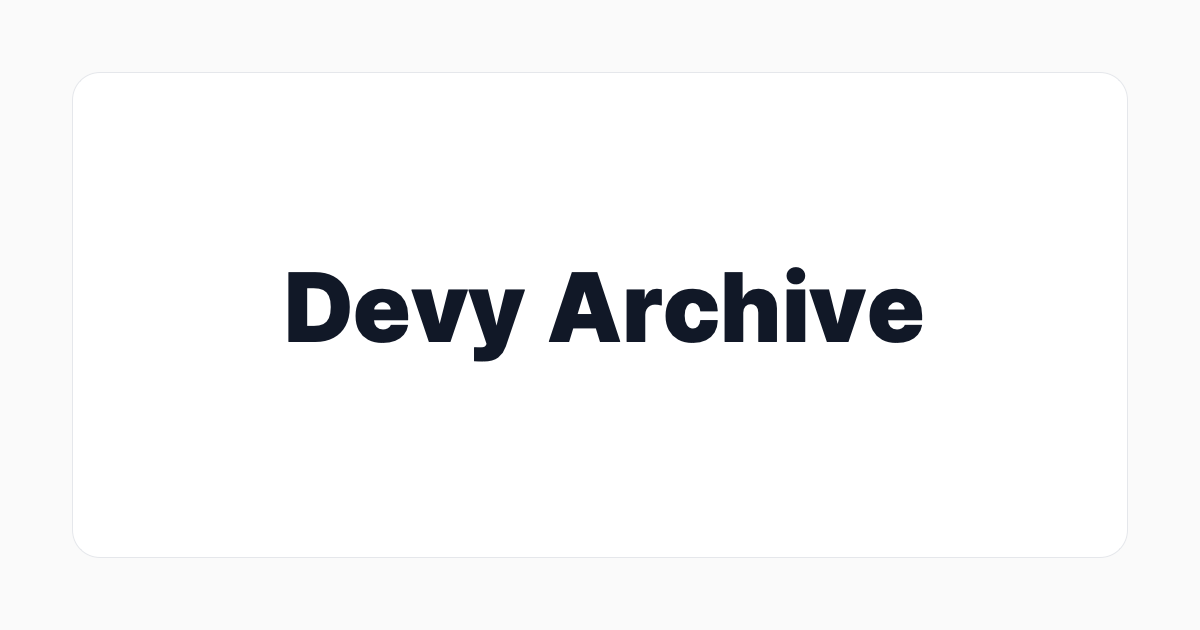
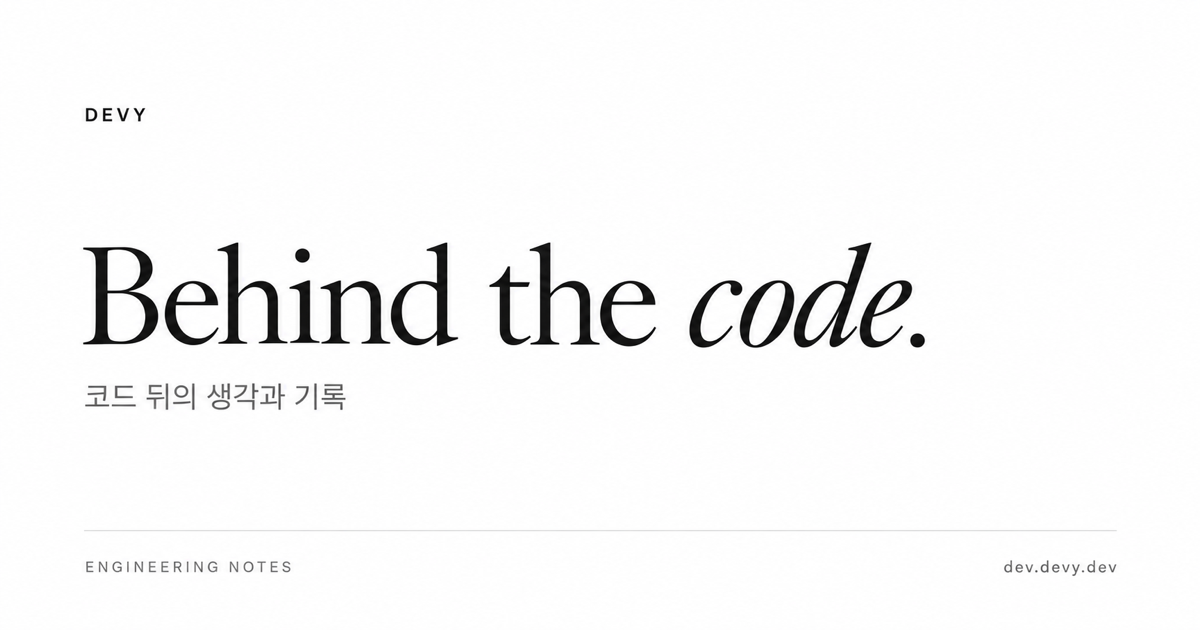
style(site): 블로그 썸네일과 홈 슬로건 개편

diff --git a/index.html b/index.html
@@ -14,17 +14,17 @@
     <meta property="og:url" content="https://dev.devy.dev" />
     <meta property="og:type" content="website" />
     <meta property="og:site_name" content="Devy Archive" />
-    <meta property="og:image" content="https://dev.devy.dev/og-image.png?v=20260610" />
+    <meta property="og:image" content="https://dev.devy.dev/og-image.png?v=20260922-4" />
     <meta property="og:image:width" content="1200" />
     <meta property="og:image:height" content="630" />
-    <meta property="og:image:alt" content="Devy Archive preview image" />
+    <meta property="og:image:alt" content="Behind the code. — Engineering notes by Devy" />
     <meta property="og:locale" content="ko_KR" />
     <link rel="canonical" href="https://dev.devy.dev" />
     <meta name="twitter:card" content="summary_large_image" />
     <meta name="twitter:title" content="Devy Archive" />
     <meta name="twitter:description" content="Devy의 개발과 운영 기록을 문제 해결 중심으로 모아둔 아카이브입니다." />
-    <meta name="twitter:image" content="https://dev.devy.dev/og-image.png?v=20260610" />
-    <meta name="twitter:image:alt" content="Devy Archive preview image" />
+    <meta name="twitter:image" content="https://dev.devy.dev/og-image.png?v=20260922-4" />
+    <meta name="twitter:image:alt" content="Behind the code. — Engineering notes by Devy" />
     <link rel="alternate" type="application/rss+xml" title="Devy Archive RSS" href="https://dev.devy.dev/rss.xml" />
     <link rel="sitemap" type="application/xml" title="Sitemap" href="https://dev.devy.dev/sitemap.xml" />
     <link rel="stylesheet" as="style" crossorigin href="https://cdn.jsdelivr.net/gh/orioncactus/pretendard@v1.3.9/dist/web/variable/pretendardvariable-dynamic-subset.min.css" />

diff --git a/src/i18n/translations.ts b/src/i18n/translations.ts
@@ -15,6 +15,7 @@ export interface Translations {
     viewAll: string
   }
   home: {
+    title: string
     subtitle: string
     viewPosts: string
     introduction: string
@@ -232,7 +233,8 @@ export const ko: Translations = {
     viewAll: "전체 보기",
   },
   home: {
-    subtitle: "백엔드 개발과 플랫폼 운영에서 마주한 문제, 선택, 해결 과정을 기록합니다.",
+    title: "Behind the code.",
+    subtitle: "백엔드와 인프라를 만들고 운영하며 배운 것들을 기록합니다.",
     viewPosts: "글 목록 보기",
     introduction: "소개",
     popularPosts: "인기 글",
@@ -449,7 +451,8 @@ export const en: Translations = {
     viewAll: "View All",
   },
   home: {
-    subtitle: "Notes on backend engineering, platform operations, and the decisions behind them.",
+    title: "Behind the code.",
+    subtitle: "Notes on building and operating backends and infrastructure.",
     viewPosts: "View Posts",
     introduction: "About",
     popularPosts: "Popular Posts",

diff --git a/src/hooks/useMetaTags.ts b/src/hooks/useMetaTags.ts
@@ -16,8 +16,8 @@ interface MetaTagsOptions {
 }
 
 const BASE_URL = "https://dev.devy.dev"
-const OG_IMAGE_URL = `${BASE_URL}/og-image.png?v=20260610`
-const OG_IMAGE_ALT = "Devy Archive preview image"
+const OG_IMAGE_URL = `${BASE_URL}/og-image.png?v=20260922-4`
+const OG_IMAGE_ALT = "Behind the code. — Engineering notes by Devy"
 
 function toCanonicalUrl(path?: string) {
   if (!path) return BASE_URL

diff --git a/src/pages/HomePage.tsx b/src/pages/HomePage.tsx
@@ -45,7 +45,7 @@ export function HomePage() {
       {/* Hero */}
       <section className="mb-10 animate-in fade-in slide-in-from-bottom-4 duration-500 fill-mode-backwards">
         <h1 className="text-4xl font-bold tracking-tight mb-2">
-          {t.meta.siteName}
+          {t.home.title}
         </h1>
         <p className="text-muted-foreground">
           {t.home.subtitle}

diff --git a/src/entry-server.tsx b/src/entry-server.tsx
@@ -29,7 +29,7 @@ export interface PrerenderRoute {
 }
 
 const BASE_URL = "https://dev.devy.dev"
-const OG_IMAGE_URL = `${BASE_URL}/og-image.png?v=20260610`
+const OG_IMAGE_URL = `${BASE_URL}/og-image.png?v=20260922-4`
 
 function markdownToText(md: string) {
   return md
